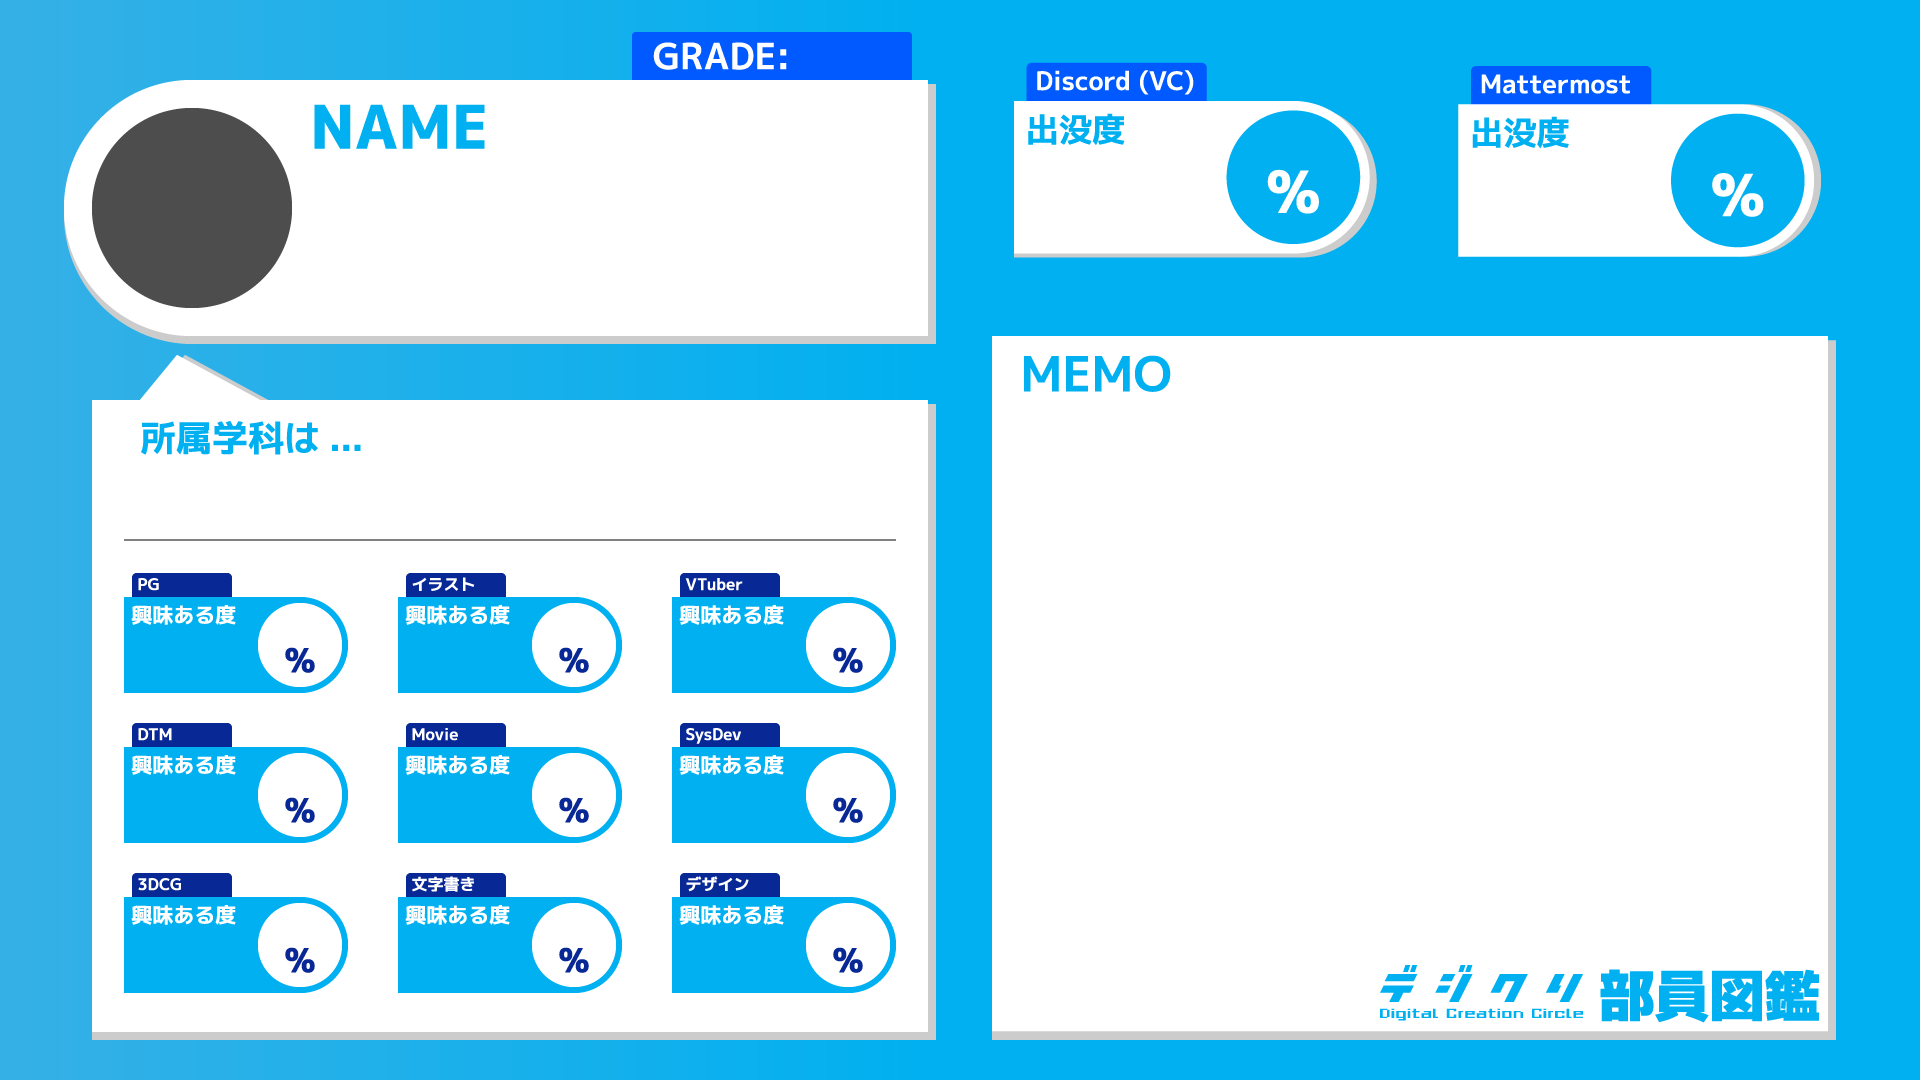
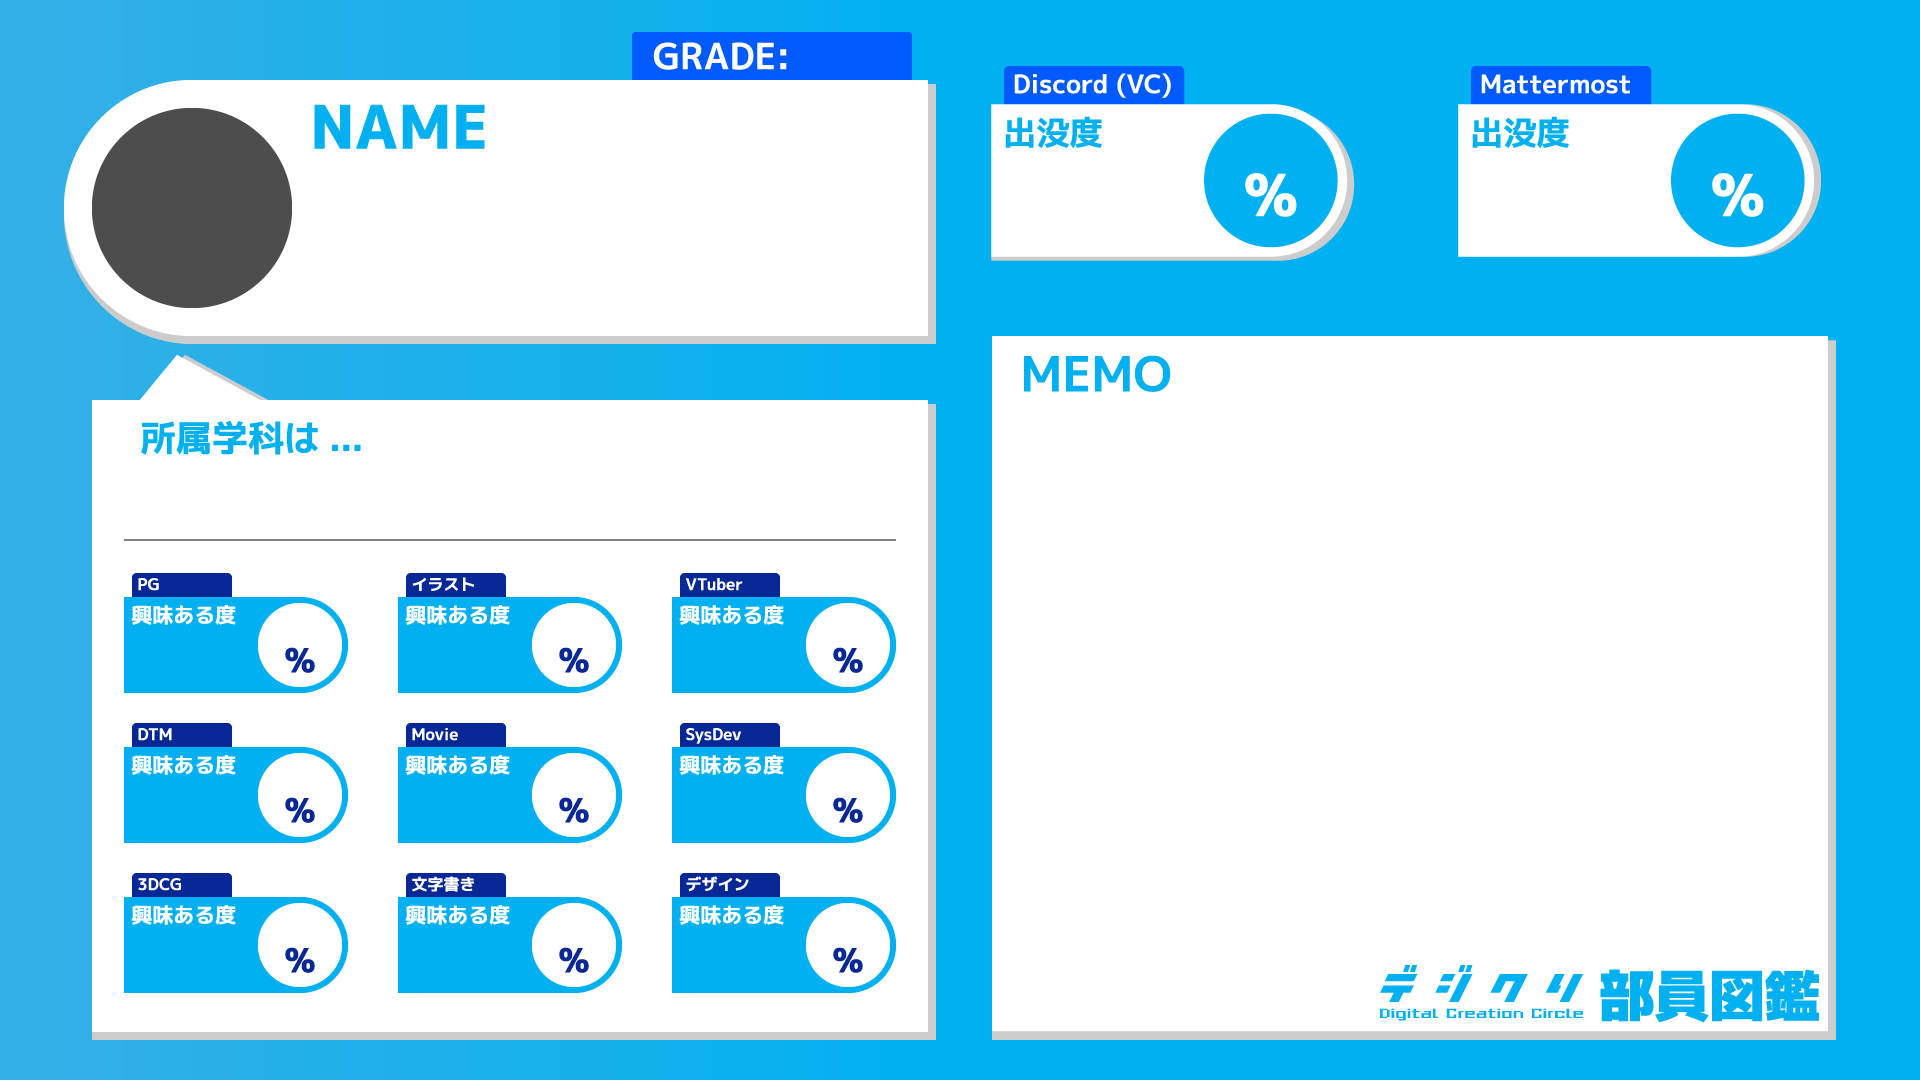
- background.pngを差し替え - Google Fontsを導入しM PLUS 1pを適用 - 各要素の縦方向の位置を修正

Changed region(s): [[0.5, 0.0611, 0.7188, 0.2444]]

diff --git a/index.html b/index.html
@@ -4,6 +4,9 @@
     <meta charset="UTF-8">
     <meta name="viewport" content="width=device-width, initial-scale=1.0">
     <title>デジクリ部員図鑑ジェネレーター</title>
+    <link rel="preconnect" href="https://fonts.googleapis.com">
+    <link rel="preconnect" href="https://fonts.gstatic.com" crossorigin>
+    <link href="https://fonts.googleapis.com/css2?family=BIZ+UDGothic:wght@400;700&family=M+PLUS+1:wght@100..900&family=M+PLUS+1p:wght@700;800&display=swap" rel="stylesheet">
     <script src="https://cdn.jsdelivr.net/npm/marked/marked.min.js"></script>
     <script src="https://cdn.jsdelivr.net/npm/html2canvas@1.4.1/dist/html2canvas.min.js"></script>
     <style>
@@ -74,6 +77,18 @@
         }
         .btn-export:hover { background-color: #0066cc; }
 
+        .m-plus-1p-bold {
+            font-family: "M PLUS 1p", sans-serif;
+            font-weight: 700;
+            font-style: normal;
+        }
+
+        .m-plus-1p-extrabold {
+            font-family: "M PLUS 1p", sans-serif;
+            font-weight: 800;
+            font-style: normal;
+        }
+
         .overlay {
             position: absolute;
             z-index: 2;
@@ -88,54 +103,64 @@
         }
         
         #preview-grade {
-            top: 35px; left: 796px;
+            top: 30px; left: 796px;
             font-size: 34px; font-weight: 900; color: white; letter-spacing: 2px;
+            font-family: "M PLUS 1p", sans-serif;
+            font-weight: 700;
         }
 
         #preview-name {
             top: 172px; left: 345px;
-            font-size: 72px; font-weight: 900; color: #00B0F0; white-space: nowrap;
+            font-size: 72px; font-weight: 900; color: black; white-space: nowrap;
+            font-family: "M PLUS 1p", sans-serif;
+            font-weight: 800;
         }
 
         #preview-dept {
             top: 486px; left: 144px;
-            font-size: 36px; font-weight: bold; color: #00B0F0;
+            font-size: 36px; font-weight: bold; color: black;
             transition: font-size 0.3s ease;
+            font-family: "M PLUS 1p", sans-serif;
+            font-weight: 700;
         }
 
         .percent-text-white {
             font-size: 46px; font-weight: 900; color: white;
             text-align: center; width: 140px;
+            font-family: "M PLUS 1p", sans-serif;
+            font-weight: 700;
         }
 
         .percent-text-digicre-skyblue {
-            font-size: 77px; font-weight: 900; color: #00B0F0;
+            font-size: 77px; font-weight: 900; color: black;
             text-align: center; width: 140px;
+            font-family: "M PLUS 1p", sans-serif;
+            font-weight: 700;
         }
 
         /* 出没度 */
-        #preview-discord { top: 154px; left: 1063px; }
-        #preview-mattermost { top: 154px; left: 1504px; }
+        #preview-discord { top: 145px; left: 1035px; }
+        #preview-mattermost { top: 145px; left: 1504px; }
 
         /* 興味ある度 */
         /* 1列目 */
-        #preview-pg { top: 628px; left: 122px; }
-        #preview-dtm { top: 779px; left: 122px; }
-        #preview-3dcg { top: 928px; left: 122px; }
+        #preview-pg { top: 620px; left: 122px; }
+        #preview-dtm { top: 770px; left: 122px; }
+        #preview-3dcg { top: 922px; left: 122px; }
         /* 2列目 */
-        #preview-illust { top: 628px; left: 400px; }
-        #preview-movie { top: 779px; left: 400px; }
-        #preview-word { top: 928px; left: 400px; }
+        #preview-illust { top: 620px; left: 400px; }
+        #preview-movie { top: 770px; left: 400px; }
+        #preview-word { top: 922px; left: 400px; }
         /* 3列目 */
-        #preview-vtuber { top: 628px; left: 679px; }
-        #preview-sysdev { top: 779px; left: 679px; }
-        #preview-design { top: 928px; left: 679px; }
+        #preview-vtuber { top: 620px; left: 679px; }
+        #preview-sysdev { top: 770px; left: 679px; }
+        #preview-design { top: 922px; left: 679px; }
 
         /* MEMOエリア */
         #preview-memo {
-            top: 430px; left: 1040px;
-            width: 800px; height: 550px;
-            font-size: 26px; line-height: 1.5; color: #333; overflow: hidden; word-wrap: break-word;
+            top: 410px; left: 1020px;
+            width: 900px; height: 620px;
+            font-size: 32px; line-height: 1.5; color: #333; overflow: hidden; word-wrap: break-word;
         }
         #preview-memo h1, #preview-memo h2, #preview-memo h3 { margin-top: 0; color: #00B0F0; margin-bottom: 5px; }
         #preview-memo p { margin-top: 0; margin-bottom: 8px; }
